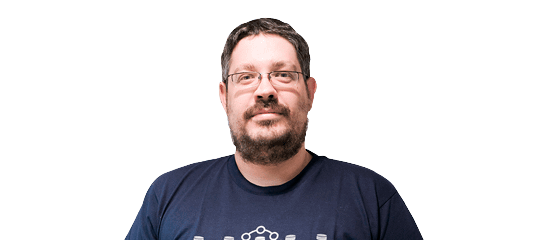
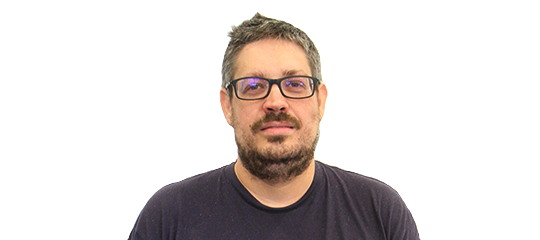
Update to team section from about page (#294)
Update team section:

- Add Alicia
- Remove Irina
- Update Maximo's pic
- Add `alt` properties to pictures

Fixes [#300](https://github.com/src-d/product/issues/300).

Changed region(s): [[0.2074, 0.0583, 0.8, 1.0]]

diff --git a/hugo/layouts/company/single.html b/hugo/layouts/company/single.html
@@ -244,7 +244,7 @@
             </div>
             <div class="col-sm-6 col-lg-3 mb-4">
                 <div class="card white">
-                    <img class="w-100" src="assets/img/team/santiago.png" alt="">
+                    <img class="w-100" src="assets/img/team/santiago.png" alt="Santiago Mola">
                     <div class="card-body">
                         <a href="https://github.com/smola" class="ic icon-git text-light"></a>
                         <p class="card-intro text-medium mt-3 mb-2">Head of Architecture</p>
@@ -254,7 +254,7 @@
             </div>
             <div class="col-sm-6 col-lg-3 mb-4">
                 <div class="card white">
-                    <img class="w-100" src="assets/img/team/alex.png" alt="">
+                    <img class="w-100" src="assets/img/team/alex.png" alt="Alexander Bezzubov">
                     <div class="card-body">
                         <a href="https://github.com/bzz" class="ic icon-git text-light"></a>
                         <p class="card-intro text-medium mt-3 mb-2">Lead Software Engineer</p>
@@ -265,7 +265,7 @@
             </div>
             <div class="col-sm-6 col-lg-3 mb-4">
                 <div class="card white">
-                    <img class="w-100" src="assets/img/team/carlos.png" alt="">
+                    <img class="w-100" src="assets/img/team/carlos.png" alt="Carlos Martín">
                     <div class="card-body">
                         <a href="https://github.com/carlosms" class="ic icon-git text-light"></a>
                         <p class="card-intro text-medium mt-3 mb-2">Senior Software Engineer</p>
@@ -276,7 +276,7 @@
             </div>
             <div class="col-sm-6 col-lg-3 mb-4">
                 <div class="card white">
-                    <img class="w-100" src="assets/img/team/maxim.png" alt="">
+                    <img class="w-100" src="assets/img/team/maxim.png" alt="Maxim Sukharev">
                     <div class="card-body">
                         <a href="https://github.com/smacker" class="ic icon-git text-light"></a>
                         <p class="card-intro text-medium mt-3 mb-2">Senior Software Engineer</p>
@@ -287,7 +287,7 @@
             </div>
             <div class="col-sm-6 col-lg-3 mb-4">
                 <div class="card white">
-                    <img class="w-100" src="assets/img/team/david.png" alt="">
+                    <img class="w-100" src="assets/img/team/david.png" alt="David Pordomingo">
                     <div class="card-body">
                         <a href="https://github.com/dpordomingo" class="ic icon-git text-light"></a>
                         <p class="card-intro text-medium mt-3 mb-2">Software Engineer</p>
@@ -298,7 +298,7 @@
             </div>
             <div class="col-sm-6 col-lg-3 mb-4">
                 <div class="card white">
-                    <img class="w-100" src="assets/img/team/antonio.png" alt="">
+                    <img class="w-100" src="assets/img/team/antonio.png" alt="Antonio Navarro">
                     <div class="card-body">
                         <a href="https://github.com/ajnavarro" class="ic icon-git text-light"></a>
                         <p class="card-intro text-medium mt-3 mb-2">Lead Software Engineer</p>
@@ -309,7 +309,7 @@
             </div>
             <div class="col-sm-6 col-lg-3 mb-4">
                 <div class="card white">
-                    <img class="w-100" src="assets/img/team/javi.png" alt="">
+                    <img class="w-100" src="assets/img/team/javi.png" alt="Javier Fontán">
                     <div class="card-body">
                         <a href="https://github.com/jfontan" class="ic icon-git text-light"></a>
                         <p class="card-intro text-medium mt-3 mb-2">Senior Software Engineer</p>
@@ -320,7 +320,7 @@
             </div>
             <div class="col-sm-6 col-lg-3 mb-4">
                 <div class="card white">
-                    <img class="w-100" src="assets/img/team/kuba.png" alt="">
+                    <img class="w-100" src="assets/img/team/kuba.png" alt="Kuba Podgórski">
                     <div class="card-body">
                         <a href="https://github.com/kuba--" class="ic icon-git text-light"></a>
                         <p class="card-intro text-medium mt-3 mb-2">Senior Software Engineer</p>
@@ -331,7 +331,7 @@
             </div>
             <div class="col-sm-6 col-lg-3 mb-4">
                 <div class="card white">
-                    <img class="w-100" src="assets/img/team/miguel.png" alt="">
+                    <img class="w-100" src="assets/img/team/miguel.png" alt="Miguel Molina">
                     <div class="card-body">
                         <a href="https://github.com/erizocosmico" class="ic icon-git text-light"></a>
                         <p class="card-intro text-medium mt-3 mb-2">Senior Software Engineer</p>
@@ -342,7 +342,7 @@
             </div>
             <div class="col-sm-6 col-lg-3 mb-4">
                     <div class="card white">
-                        <img class="w-100" src="assets/img/team/manuel.png" alt="">
+                        <img class="w-100" src="assets/img/team/manuel.png" alt="Manuel Carmona">
                         <div class="card-body">
                             <a href="https://github.com/mcarmonaa" class="ic icon-git text-light"></a>
                             <p class="card-intro text-medium mt-3 mb-2">Junior Software Engineer</p>
@@ -353,7 +353,7 @@
                 </div>
             <div class="col-sm-6 col-lg-3 mb-4">
                 <div class="card white">
-                    <img class="w-100" src="assets/img/team/rafa.png" alt="">
+                    <img class="w-100" src="assets/img/team/rafa.png" alt="Rafael Porres">
                     <div class="card-body">
                         <a href="https://github.com/rporres" class="ic icon-git text-light"></a>
                         <p class="card-intro text-medium mt-3 mb-2">Lead Infrastructure Engineer</p>
@@ -364,7 +364,7 @@
             </div>
             <div class="col-sm-6 col-lg-3 mb-4">
                     <div class="card white">
-                        <img class="w-100" src="assets/img/team/placeholder-female.png" alt="">
+                        <img class="w-100" src="assets/img/team/placeholder-female.png" alt="Maartje Eyskens">
                         <div class="card-body">
                             <a href="https://github.com/meyskens" class="ic icon-git text-light"></a>
                             <p class="card-intro text-medium mt-3 mb-2">Software Engineer</p>
@@ -375,7 +375,7 @@
                 </div>
             <div class="col-sm-6 col-lg-3 mb-4">
                 <div class="card white">
-                    <img class="w-100" src="assets/img/team/denys.png" alt="">
+                    <img class="w-100" src="assets/img/team/denys.png" alt="Denys Smirnov">
                     <div class="card-body">
                         <a href="https://github.com/dennwc" class="ic icon-git text-light"></a>
                         <p class="card-intro text-medium mt-3 mb-2">Senior Software Engineer</p>
@@ -386,7 +386,7 @@
             </div>
             <div class="col-sm-6 col-lg-3 mb-4">
                 <div class="card white">
-                    <img class="w-100" src="assets/img/team/juanjo.png" alt="">
+                    <img class="w-100" src="assets/img/team/juanjo.png" alt="Juanjo Álvarez">
                     <div class="card-body">
                         <a href="https://github.com/juanjux" class="ic icon-git text-light"></a>
                         <p class="card-intro text-medium mt-3 mb-2">Senior Software Engineer</p>
@@ -397,7 +397,7 @@
             </div>
             <div class="col-sm-6 col-lg-3 mb-4">
                 <div class="card white">
-                    <img class="w-100" src="assets/img/team/vadim.png" alt="">
+                    <img class="w-100" src="assets/img/team/vadim.png" alt="Vadim Markovtsev">
                     <div class="card-body">
                         <a href="https://github.com/vmarkovtsev" class="ic icon-git text-light"></a>
                         <p class="card-intro text-medium mt-3 mb-2">Lead Software Engineer</p>
@@ -408,7 +408,7 @@
             </div>
             <div class="col-sm-6 col-lg-3 mb-4">
                 <div class="card white">
-                    <img class="w-100" src="assets/img/team/egor.png" alt="">
+                    <img class="w-100" src="assets/img/team/egor.png" alt="Egor Bulychev">
                     <div class="card-body">
                         <a href="https://github.com/EgorBu" class="ic icon-git text-light"></a>
                         <p class="card-intro text-medium mt-3 mb-2">Senior Software Engineer</p>
@@ -419,7 +419,7 @@
             </div>
             <div class="col-sm-6 col-lg-3 mb-4">
                     <div class="card white">
-                        <img class="w-100" src="assets/img/team/hugo.png" alt="">
+                        <img class="w-100" src="assets/img/team/hugo.png" alt="Hugo Mougard">
                         <div class="card-body">
                             <a href="https://github.com/m09" class="ic icon-git text-light"></a>
                             <p class="card-intro text-medium mt-3 mb-2">Senior Software Engineer</p>
@@ -430,7 +430,7 @@
                 </div>
             <div class="col-sm-6 col-lg-3 mb-4">
                 <div class="card white">
-                    <img class="w-100" src="assets/img/team/konstantin.png" alt="">
+                    <img class="w-100" src="assets/img/team/konstantin.png" alt="Konstantin Slavnov">
                     <div class="card-body">
                         <a href="https://github.com/zurk" class="ic icon-git text-light"></a>
                         <p class="card-intro text-medium mt-3 mb-2">Junior Software Engineer</p>
@@ -441,22 +441,11 @@
             </div>
             <div class="col-sm-6 col-lg-3 mb-4">
                 <div class="card white">
-                    <img class="w-100" src="assets/img/team/waren.png" alt="">
+                    <img class="w-100" src="assets/img/team/waren.png" alt="Waren Long">
                     <div class="card-body">
                         <a href="https://github.com/warenlg" class="ic icon-git text-light"></a>
                         <p class="card-intro text-medium mt-3 mb-2">Junior Software Engineer</p>
                         <h4 class="text-dark title-line line-yellow">Waren Long</h4>
-                        <span class="text-medium">Machine Learning Team</span>
-                    </div>
-                </div>
-            </div>
-            <div class="col-sm-6 col-lg-3 mb-4">
-                <div class="card white">
-                    <img class="w-100" src="assets/img/team/irina.png" alt="">
-                    <div class="card-body">
-                        <a href="https://github.com/irinakhismatullina" class="ic icon-git text-light"></a>
-                        <p class="card-intro text-medium mt-3 mb-2">Intern Software Engineer</p>
-                        <h4 class="text-dark title-line line-yellow">Irina Khismatullina</h4>
                         <span class="text-medium">Machine Learning Team</span>
                     </div>
                 </div>
@@ -467,7 +456,7 @@
             </div>
             <div class="col-sm-6 col-lg-3 mb-4">
                 <div class="card white">
-                    <img class="w-100" src="assets/img/team/marcelo.png" alt="">
+                    <img class="w-100" src="assets/img/team/marcelo.png" alt="Marcelo Novaes">
                     <div class="card-body">
                         <a href="https://github.com/marnovo" class="ic icon-git text-light"></a>
                         <h4 class="text-dark title-line line-yellow mt-3">Marcelo Novaes</h4>
@@ -477,7 +466,7 @@
             </div>
             <div class="col-sm-6 col-lg-3 mb-4">
                 <div class="card white">
-                    <img class="w-100" src="assets/img/team/ricardo.png" alt="">
+                    <img class="w-100" src="assets/img/team/ricardo.png" alt="Ricardo Baeta">
                     <div class="card-body">
                         <a href="https://www.linkedin.com/in/ricardobaeta" class="ic icon-lin text-light"></a>
                         <h4 class="text-dark title-line line-yellow mt-3">Ricardo Baeta</h4>
@@ -487,11 +476,21 @@
             </div>
             <div class="col-sm-6 col-lg-3 mb-4">
                 <div class="card white">
-                    <img class="w-100" src="assets/img/team/fernanda.png" alt="">
+                    <img class="w-100" src="assets/img/team/fernanda.png" alt="Fernanda Gomes">
                     <div class="card-body">
                         <a href="https://github.com/gomesfernanda" class="ic icon-git text-light"></a>
                         <h4 class="text-dark title-line line-yellow mt-3">Fernanda Gomes</h4>
                         <span class="text-medium">Data Intelligence Analyst</span>
+                    </div>
+                </div>
+            </div>
+            <div class="col-sm-6 col-lg-3 mb-4">
+                <div class="card white">
+                    <img class="w-100" src="assets/img/team/alicia.png" alt="Alicia Kozlowski">
+                    <div class="card-body">
+                        <a href="https://www.linkedin.com/in/alicia-kozlowski/" class="ic icon-lin text-light"></a>
+                        <h4 class="text-dark title-line line-yellow mt-3">Alicia Kozlowski</h4>
+                        <span class="text-medium">Intern Product Designer</span>
                     </div>
                 </div>
             </div>
@@ -501,7 +500,7 @@
                 </div>
                 <div class="col-sm-6 col-lg-3 mb-4">
                     <div class="card white">
-                        <img class="w-100" src="assets/img/team/placeholder.png" alt="">
+                        <img class="w-100" src="assets/img/team/placeholder.png" alt="Victor Coisne">
                         <div class="card-body">
                             <a href="https://www.linkedin.com/in/victorcoisne" class="ic icon-lin text-light"></a>
                             <h4 class="text-dark title-line line-yellow mt-3">Victor Coisne</h4>
@@ -515,7 +514,7 @@
             </div>
             <div class="col-sm-6 col-lg-3 mb-4">
                 <div class="card white">
-                    <img class="w-100" src="assets/img/team/esther.png" alt="">
+                    <img class="w-100" src="assets/img/team/esther.png" alt="Esther García">
                     <div class="card-body">
                         <a href="https://www.linkedin.com/in/esther-garc%C3%ADa-mart%C3%ADn-0331692b" class="ic icon-lin text-light"></a>
                         <h4 class="text-dark title-line line-yellow mt-3">Esther García</h4>
@@ -525,7 +524,7 @@
             </div>
             <div class="col-sm-6 col-lg-3 mb-4">
                 <div class="card white">
-                    <img class="w-100" src="assets/img/team/anna.png" alt="">
+                    <img class="w-100" src="assets/img/team/anna.png" alt="Anna Tsolakou">
                     <div class="card-body">
                         <a href="https://github.com/tsolakoua" class="ic icon-git text-light"></a>
                         <h4 class="text-dark title-line line-yellow mt-3">Anna Tsolakou</h4>
@@ -539,7 +538,7 @@
             </div>
             <div class="col-sm-6 col-lg-3 mb-4">
                 <div class="card white">
-                    <img class="w-100" src="assets/img/team/eiso.png" alt="">
+                    <img class="w-100" src="assets/img/team/eiso.png" alt="Eiso Kant">
                     <div class="card-body">
                         <a href="https://github.com/eiso" class="ic icon-git text-light"></a>
                         <h4 class="text-dark title-line line-yellow mt-3">Eiso Kant</h4>
@@ -549,7 +548,7 @@
             </div>
             <div class="col-sm-6 col-lg-3 mb-4">
                 <div class="card white">
-                    <img class="w-100" src="assets/img/team/jorge.png" alt="">
+                    <img class="w-100" src="assets/img/team/jorge.png" alt="Jorge Schnura">
                     <div class="card-body">
                         <a href="https://www.linkedin.com/in/jorgeschnura" class="ic icon-lin text-light"></a>
                         <h4 class="text-dark title-line line-yellow mt-3">Jorge Schnura</h4>
@@ -559,7 +558,7 @@
             </div>
             <div class="col-sm-6 col-lg-3 mb-4">
                 <div class="card white">
-                    <img class="w-100" src="assets/img/team/maximo.png" alt="">
+                    <img class="w-100" src="assets/img/team/maximo.png" alt="Máximo Cuadros">
                     <div class="card-body">
                         <a href="https://github.com/mcuadros" class="ic icon-git text-light"></a>
                         <h4 class="text-dark title-line line-yellow mt-3">Máximo Cuadros</h4>
@@ -569,7 +568,7 @@
             </div>
             <div class="col-sm-6 col-lg-3 mb-4">
                 <div class="card white">
-                    <img class="w-100" src="assets/img/team/francesc.png" alt="">
+                    <img class="w-100" src="assets/img/team/francesc.png" alt="Francesc Campoy">
                     <div class="card-body">
                         <a href="https://github.com/campoy" class="ic icon-git text-light"></a>
                         <h4 class="text-dark title-line line-yellow mt-3">Francesc Campoy</h4>
